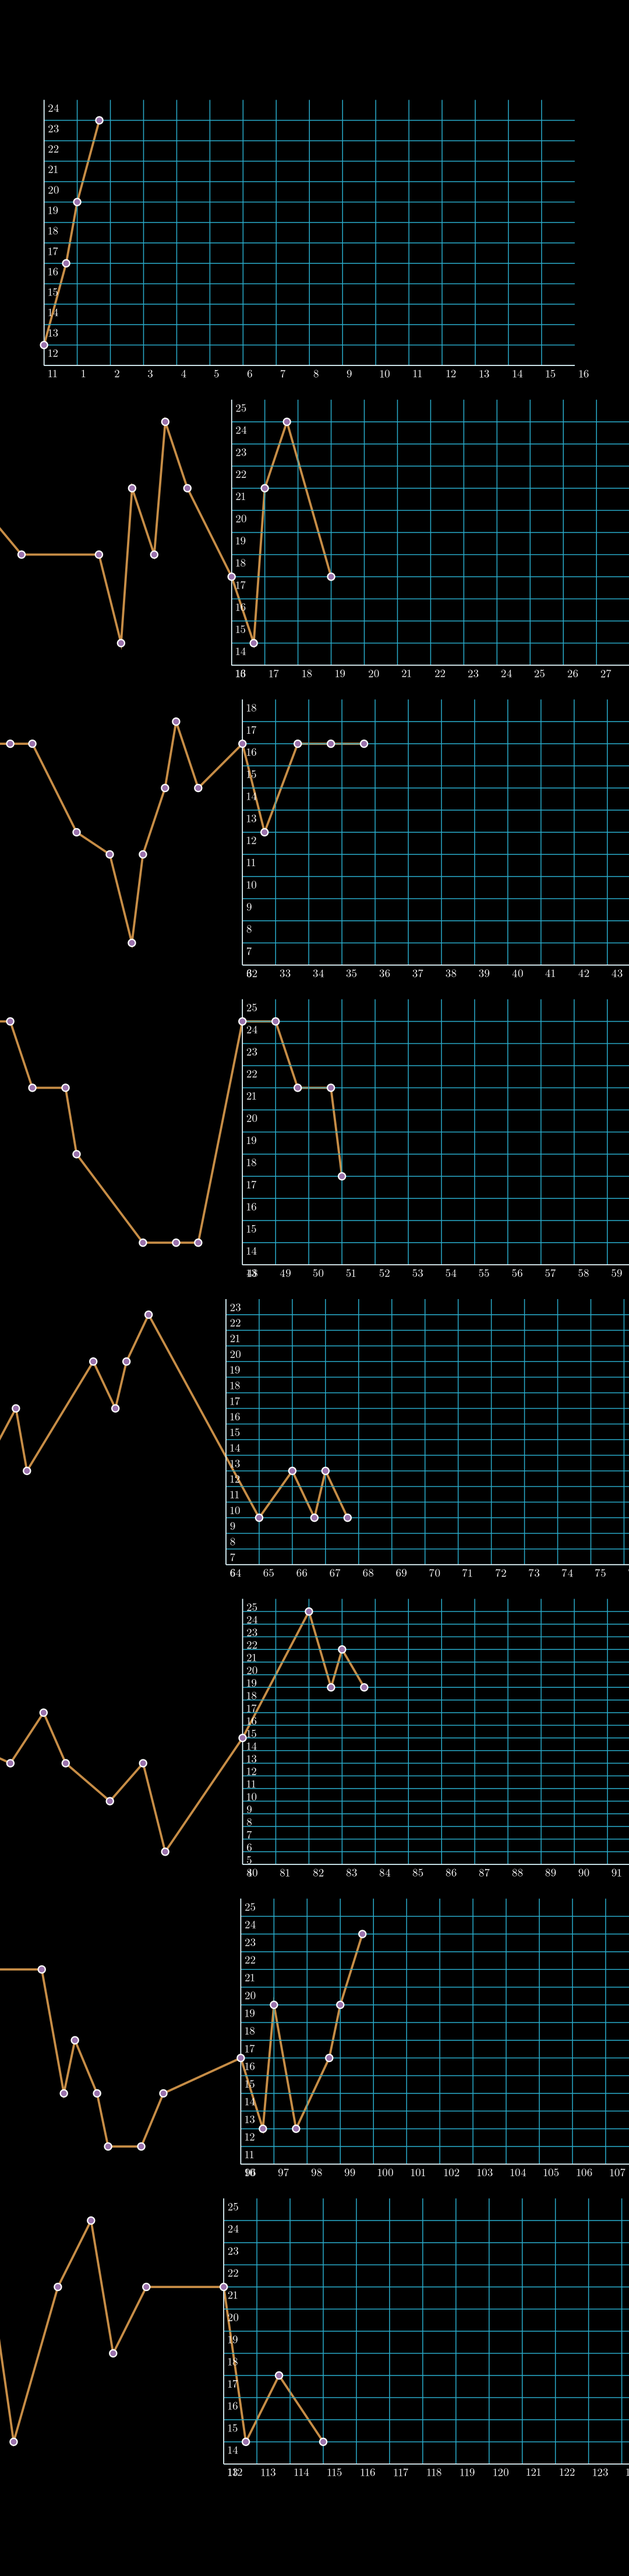
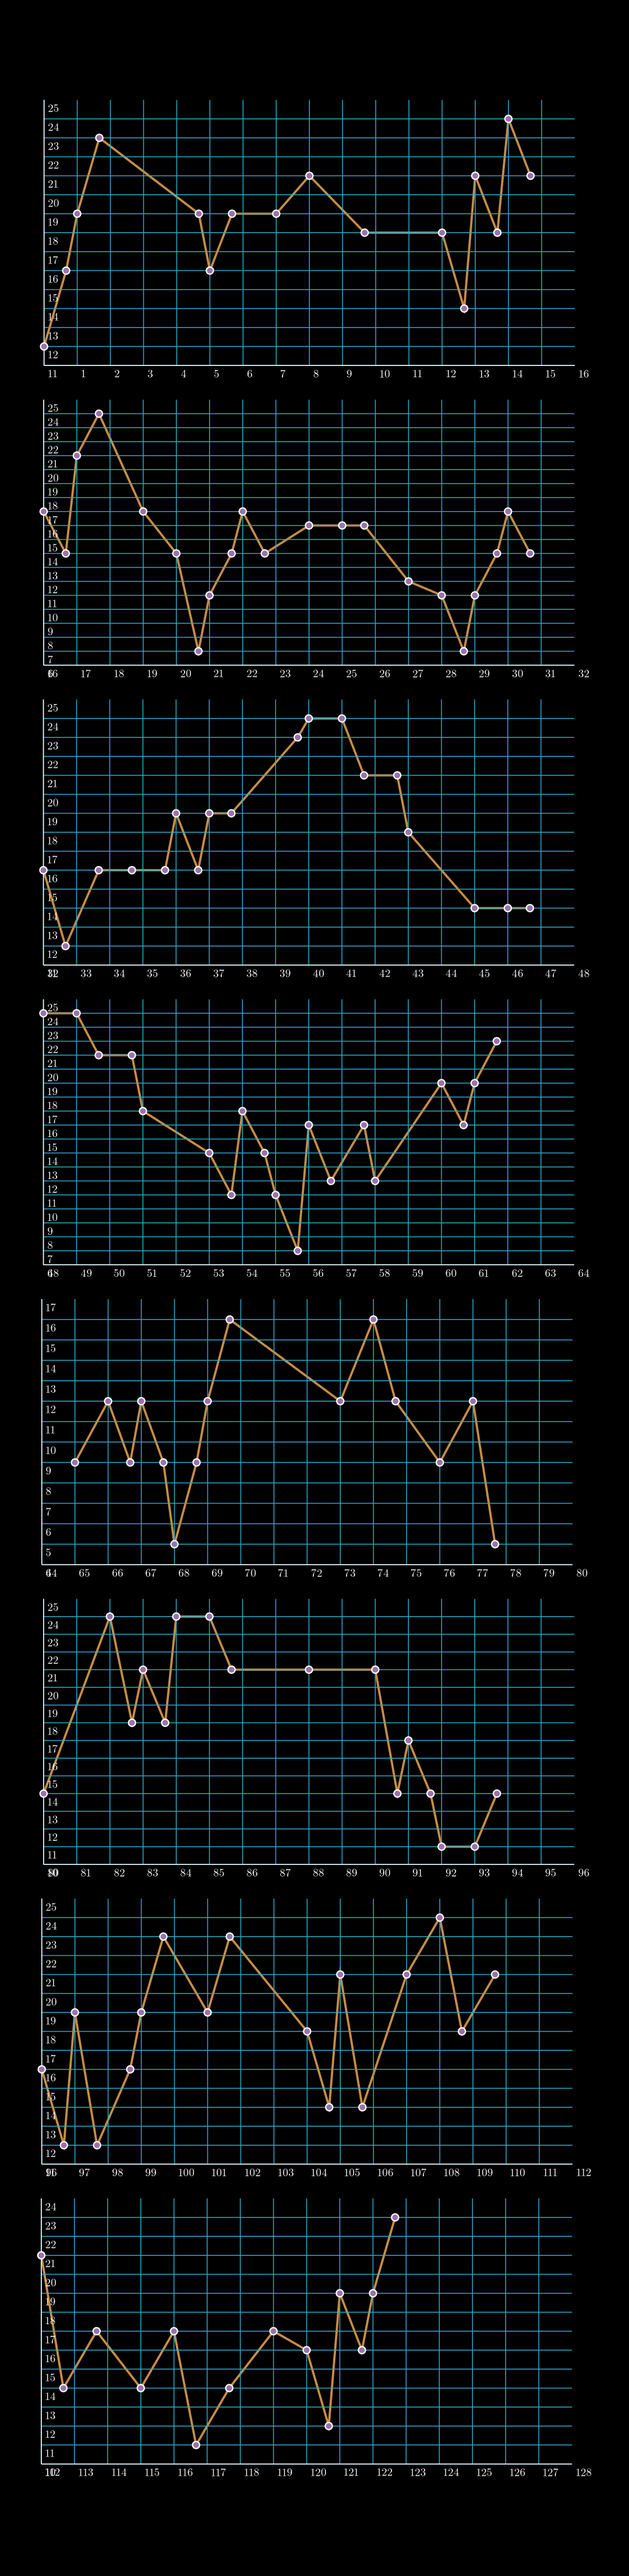
add in basic dots

diff --git a/line_graph.py b/line_graph.py
@@ -82,7 +82,7 @@ class LineGraphExample(Scene):
         measure_count = 0
         for measure in m.measures:
             # TODO remove hardcoded 4
-            if measure_count % 4-1 == 0 and measure_count != 0:
+            if measure_count % 4 == 0 and measure_count != 0:
                 x_vals, y_vals = convert_points_to_x_y_list(point_row)
                 points.append((x_vals, y_vals))
                 point_row = []
@@ -95,12 +95,12 @@ class LineGraphExample(Scene):
         #print([float(x) for x in x_vals], [float(y) for y in y_vals])
 
         # adds in the last one
-        #points.append(tuple(convert_points_to_x_y_list(point_row)))
+        points.append(tuple(convert_points_to_x_y_list(point_row)))
 
 
-        ## If the input was less than one measure
-        #if measure_count <= 4:
-        #    points.append(tuple(convert_points_to_x_y_list(point_row)))
+        # If the input was less than one measure
+        if measure_count <= 4:
+            points.append(tuple(convert_points_to_x_y_list(point_row)))
 
         graphs = []
         start_idx = 0
